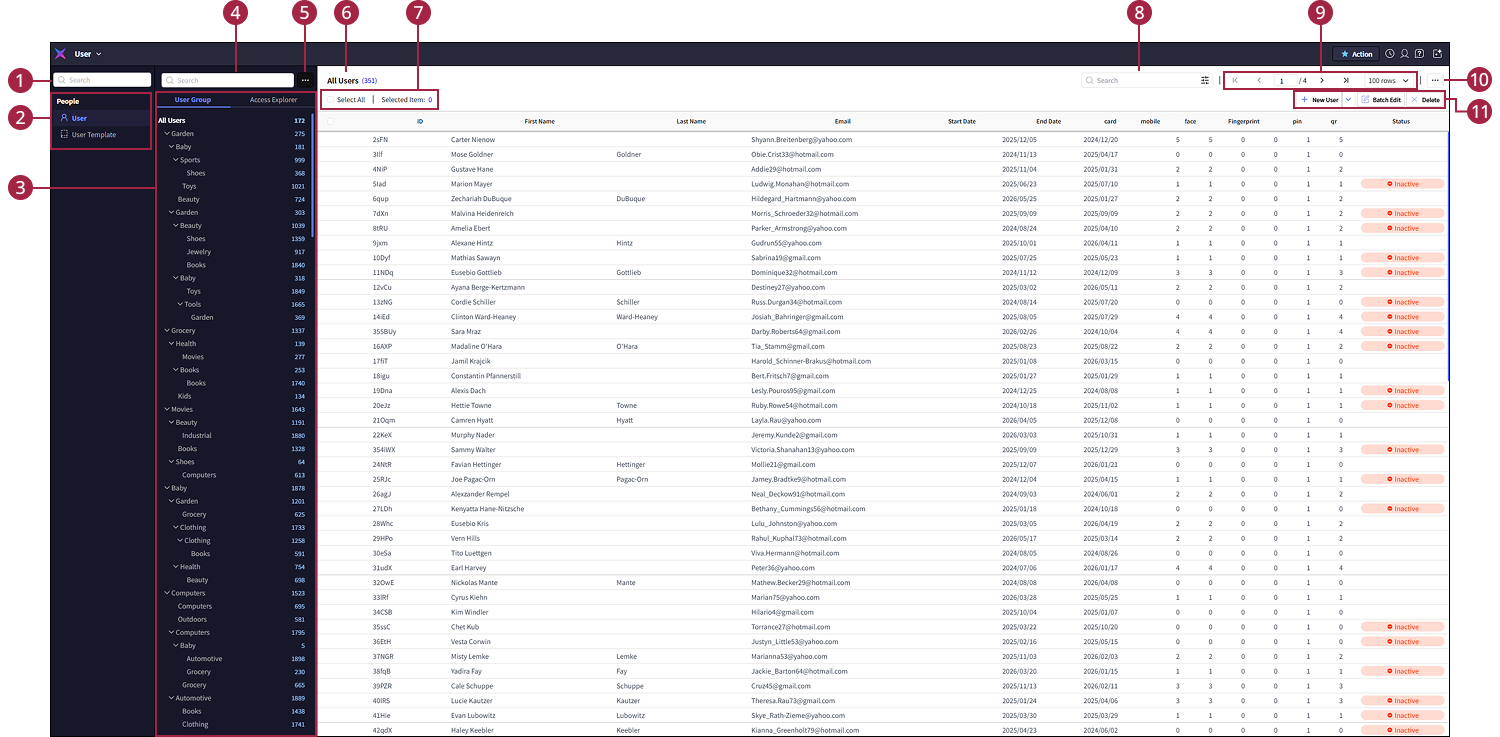
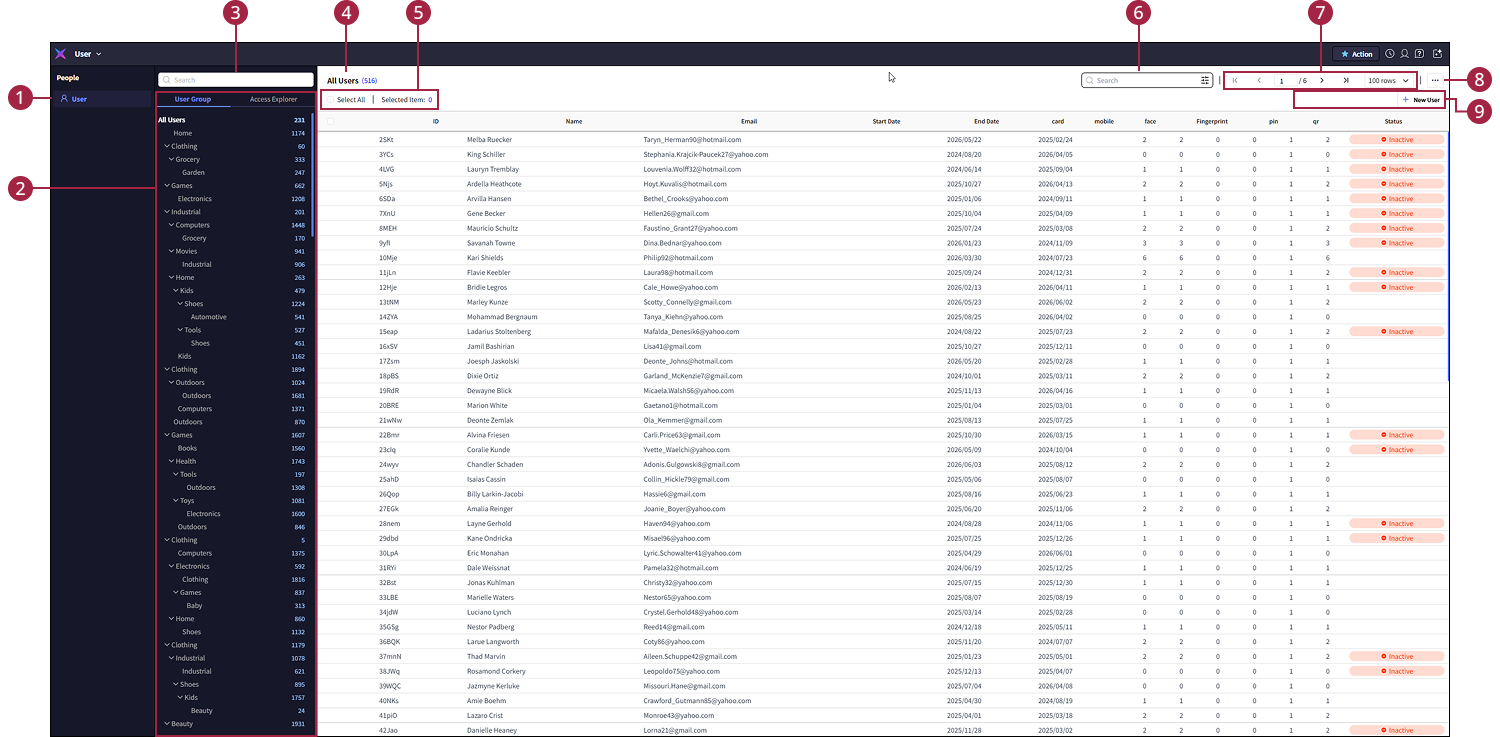
feat: 출입문 관리하기, 출입문 그룹 관리 문서 추가 update: 사용자 UI 화면 안내 수정

diff --git a/sidebars.js b/sidebars.js
@@ -178,6 +178,17 @@ const sidebars = {
             },
             'platform/biostar_x/settings-device-image-log',
             'platform/biostar_x/settings-device-usb-agent',
+            {
+              type: 'category',
+              label: '출입문 관리하기',
+              link: {
+                type: 'doc',
+                id: 'platform/biostar_x/settings-manage-door'
+              },
+              items: [
+                'platform/biostar_x/settings-manage-door-group',
+              ]
+            }
           ]
         },
         {
